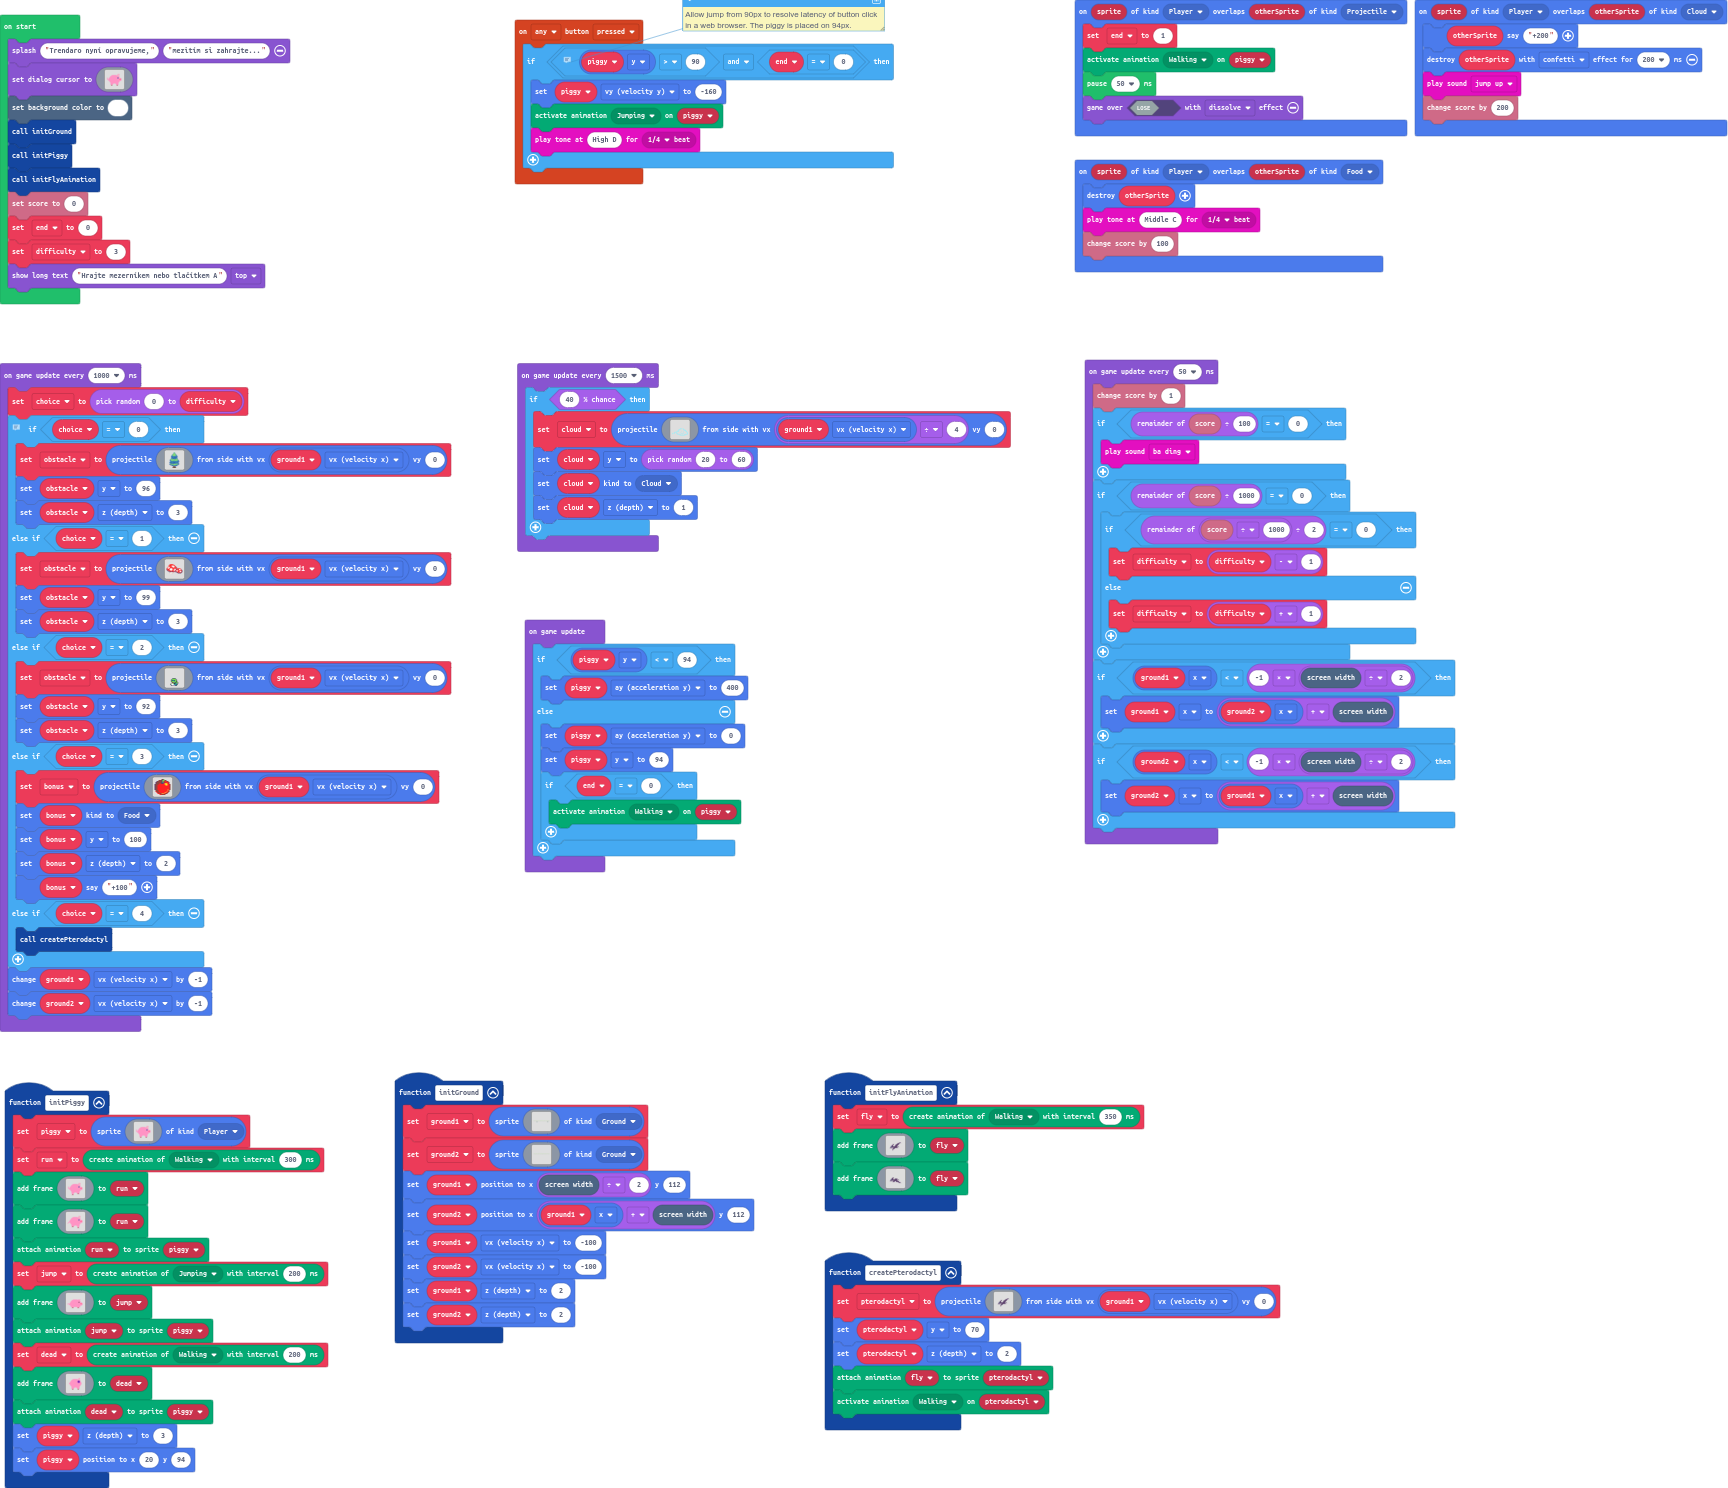
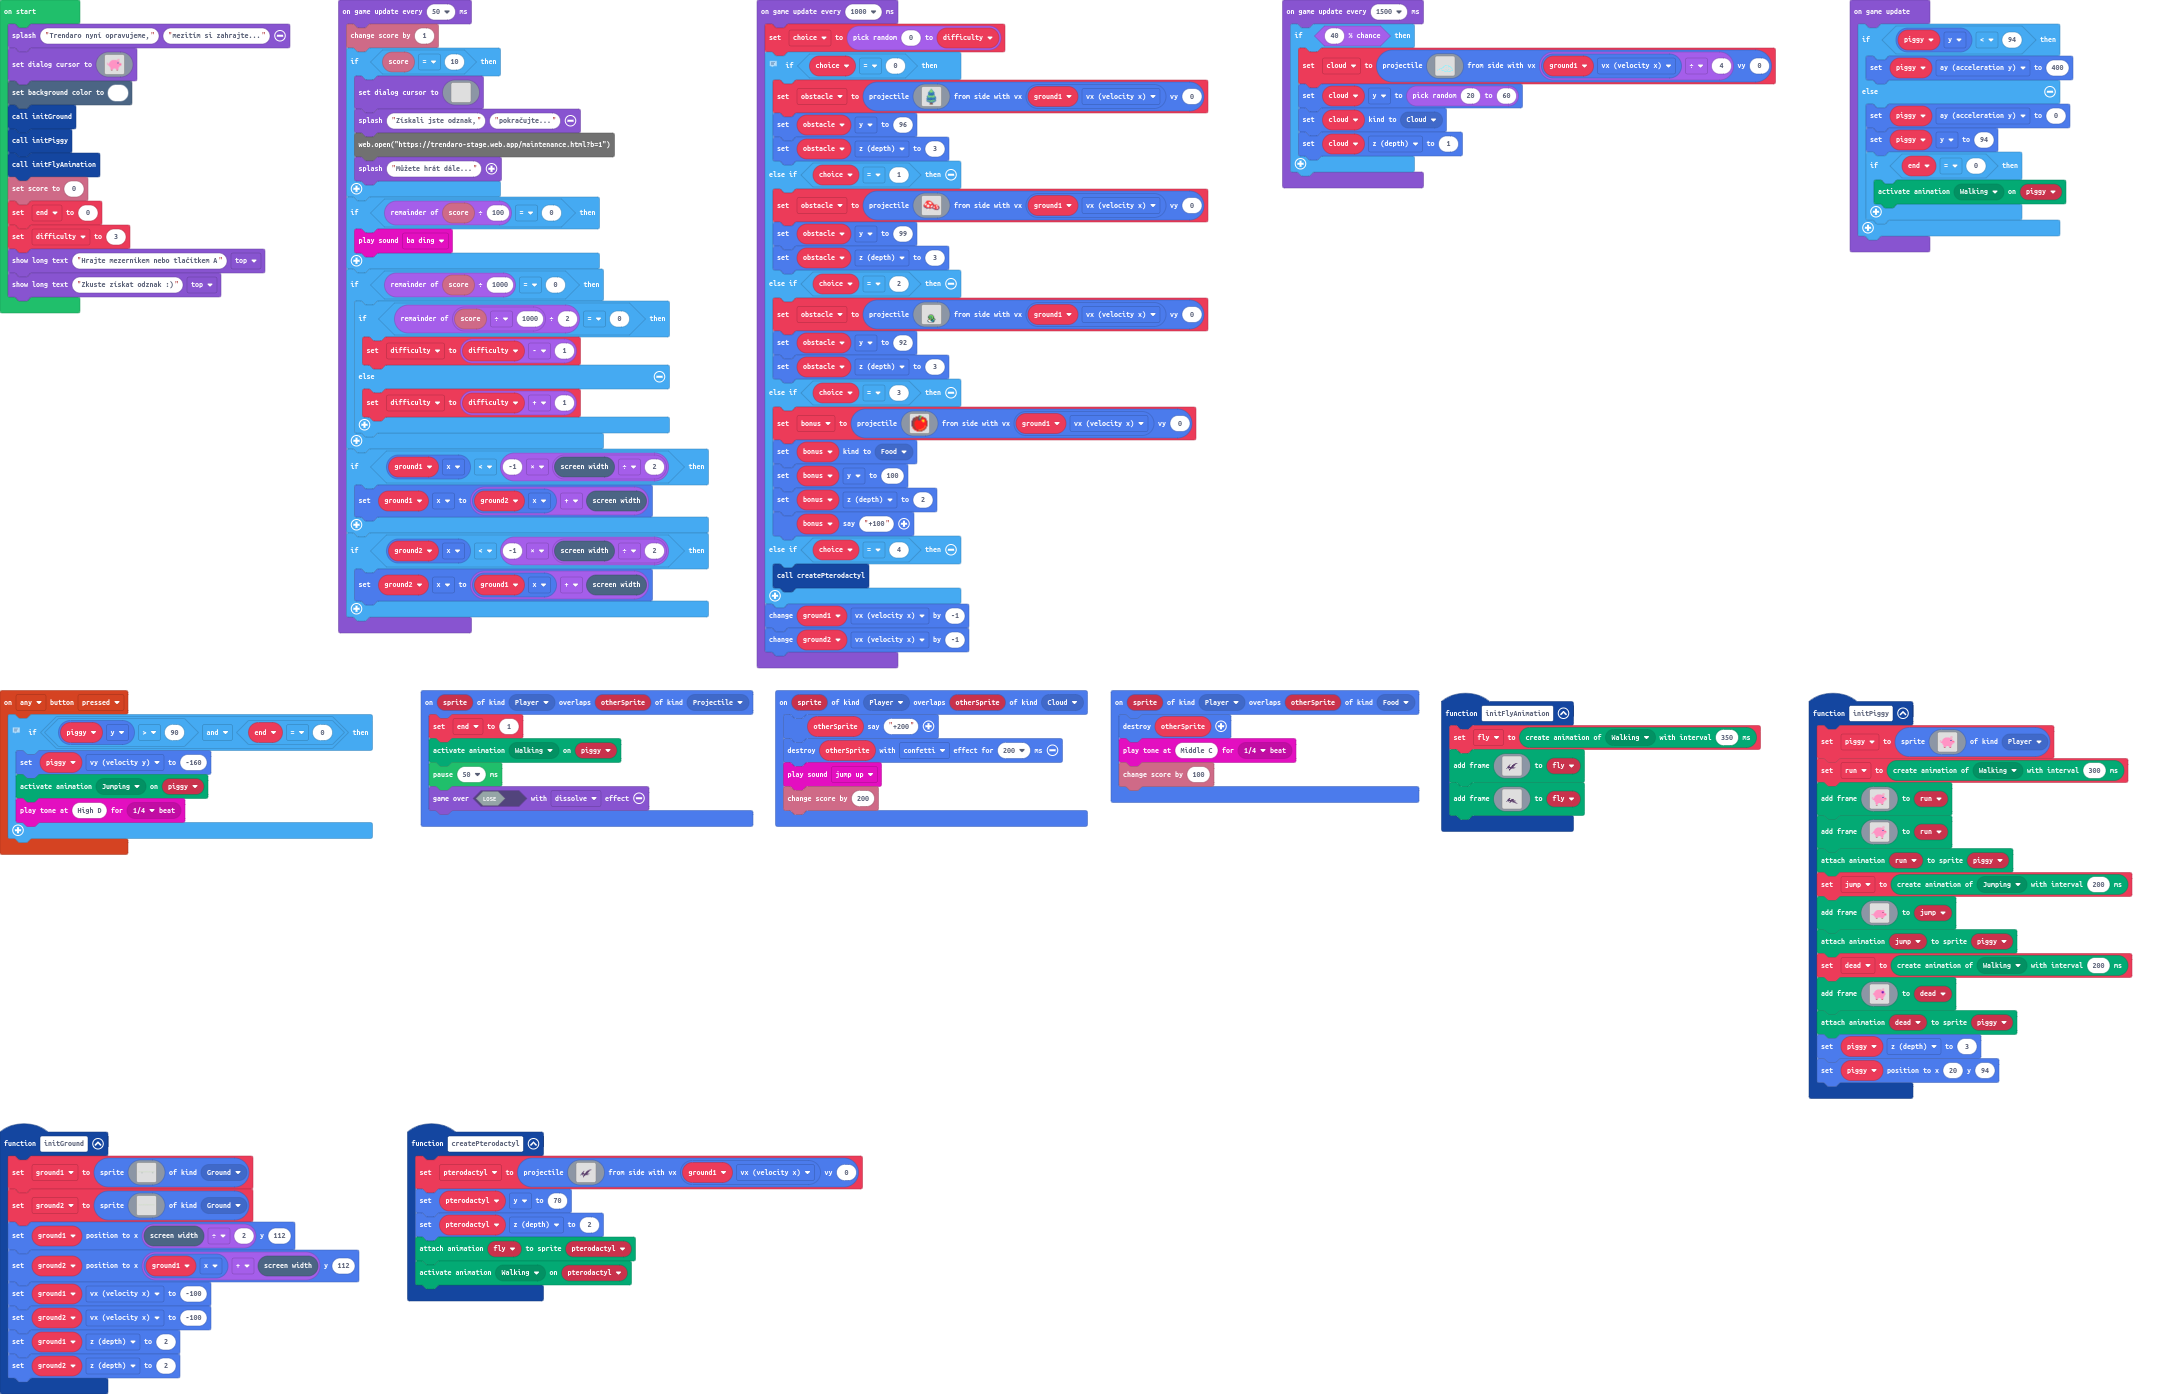
Update pxt.json, main.blocks, main.ts, images.g.jres, images.g.ts

diff --git a/main.ts b/main.ts
@@ -94,6 +94,7 @@ info.setScore(0)
 end = 0
 let difficulty = 3
 game.showLongText("Hrajte mezerníkem nebo tlačítkem A", DialogLayout.Top)
+game.showLongText("Zkuste získat odznak :)", DialogLayout.Top)
 game.onUpdate(function () {
     if (piggy.y < 94) {
         piggy.ay = 400
@@ -107,6 +108,29 @@ game.onUpdate(function () {
 })
 game.onUpdateInterval(50, function () {
     info.changeScoreBy(1)
+    if (info.score() == 10) {
+        game.setDialogCursor(img`
+            . . . . . . . . . . . . . . . . 
+            . . . . . . . . . . . . . . . . 
+            . . . . . . . . . . . . . . . . 
+            . . . . . . . . . . . . . . . . 
+            . . . . . . . . . . . . . . . . 
+            . . . . . . . . . . . . . . . . 
+            . . . . . . . . . . . . . . . . 
+            . . . . . . . . . . . . . . . . 
+            . . . . . . . . . . . . . . . . 
+            . . . . . . . . . . . . . . . . 
+            . . . . . . . . . . . . . . . . 
+            . . . . . . . . . . . . . . . . 
+            . . . . . . . . . . . . . . . . 
+            . . . . . . . . . . . . . . . . 
+            . . . . . . . . . . . . . . . . 
+            . . . . . . . . . . . . . . . . 
+            `)
+        game.splash("Získali jste odznak,", "pokračujte...")
+        web.open("https://trendaro-stage.web.app/maintenance.html?b=1")
+game.splash("Můžete hrát dále...")
+    }
     if (info.score() % 100 == 0) {
         music.baDing.play()
     }

diff --git a/images.g.ts b/images.g.ts
@@ -437,6 +437,42 @@ c2222111122111c2222112c.
 .....d11dd.......ccccc..
 .....d1dd........d1d....
 `;
+            case "image7":return img`
+. . . . . . . . . . . . . . . . 
+. . . . . . . . . . . . . . . . 
+. . . . . . . . . . . . . . . . 
+. . . . . . . . . . . . . . . . 
+. . . . . . . . . . . . . . . . 
+. . . . . . . . . . . . . . . . 
+. . . . . . . . . . . . . . . . 
+. . . . . . . . . . . . . . . . 
+. . . . . . . . . . . . . . . . 
+. . . . . . . . . . . . . . . . 
+. . . . . . . . . . . . . . . . 
+. . . . . . . . . . . . . . . . 
+. . . . . . . . . . . . . . . . 
+. . . . . . . . . . . . . . . . 
+. . . . . . . . . . . . . . . . 
+. . . . . . . . . . . . . . . . 
+`;
+            case "image5":return img`
+. . . . . . . . . . . . . . . . 
+. . . . . . . . . . . . . . . . 
+. . . . . . . . . . . . . . . . 
+. . . . . . . . . . . . . . . . 
+. . . . . . . . . . . . . . . . 
+. . . . . . . . . . . . . . . . 
+. . . . . . . . . . . . . . . . 
+. . . . . . . . . . . . . . . . 
+. . . . . . . . . . . . . . . . 
+. . . . . . . . . . . . . . . . 
+. . . . . . . . . . . . . . . . 
+. . . . . . . . . . . . . . . . 
+. . . . . . . . . . . . . . . . 
+. . . . . . . . . . . . . . . . 
+. . . . . . . . . . . . . . . . 
+. . . . . . . . . . . . . . . . 
+`;
         }
         return null;
     })
